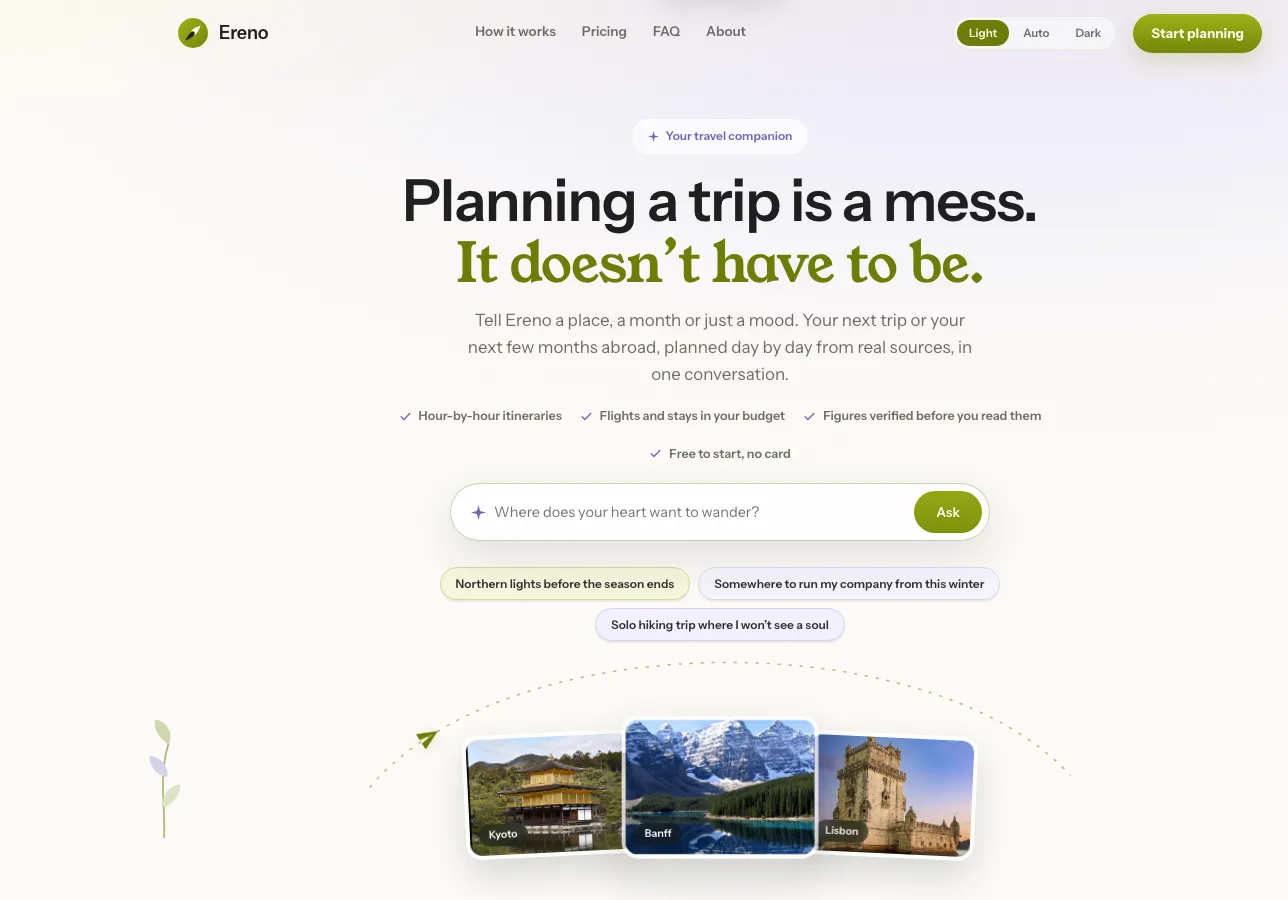
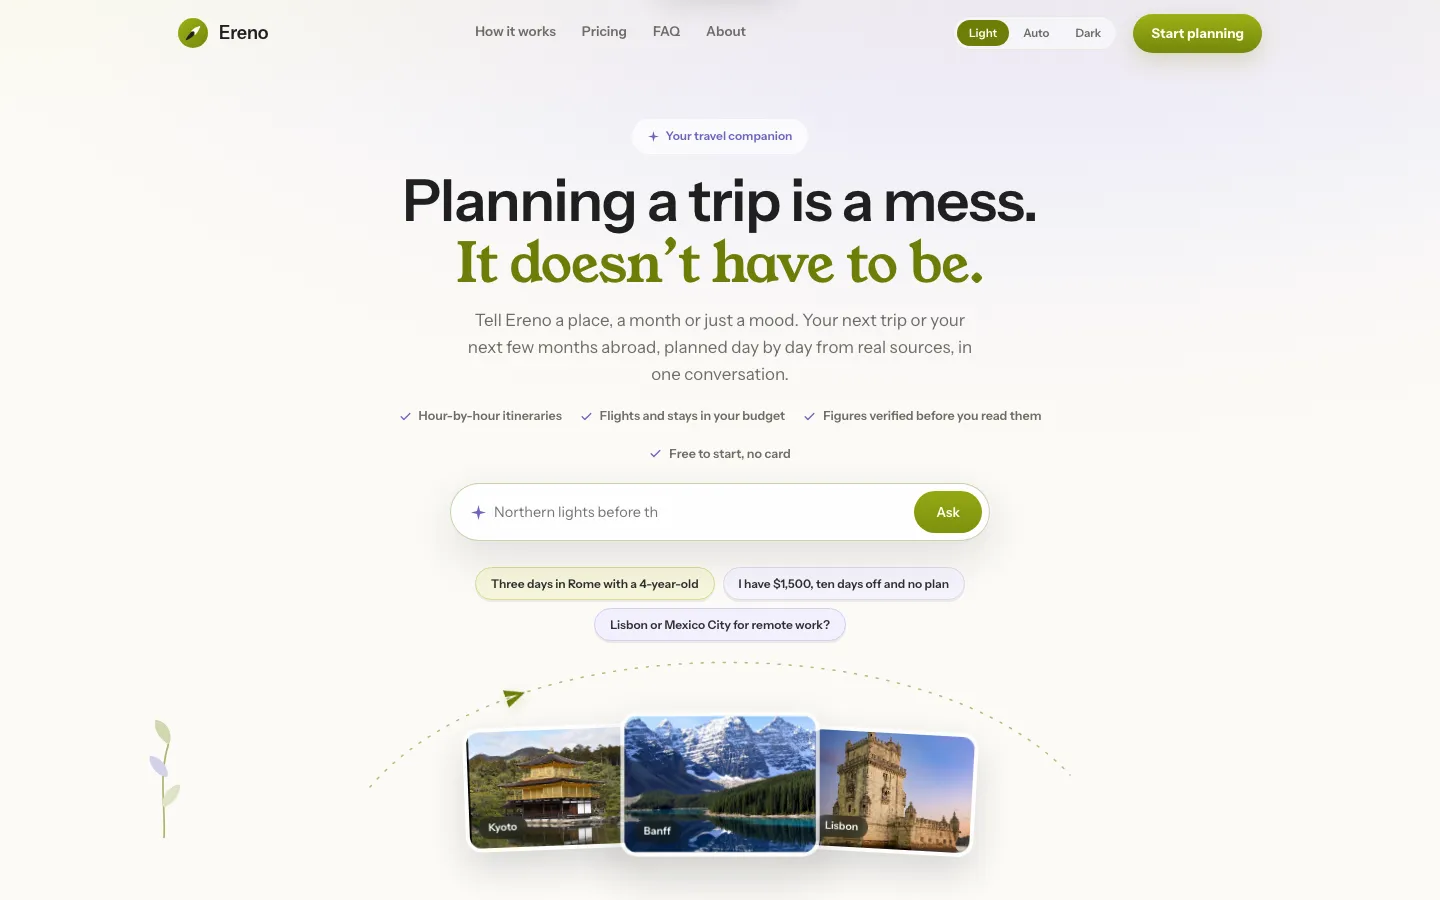
Polish studio site for EU buyers and refresh Ereno app shots
Fable tightened section rhythm, theme-aware cards, and the footer gap. Product images now show the live Ereno app onboarding, not only the marketing landing.

diff --git a/src/content/site.ts b/src/content/site.ts
@@ -5,13 +5,14 @@ export const contact = {
   github: 'https://github.com/DMPResearch',
   label: 'Build with us',
   bookLabel: 'Book a call',
+  bookFallback: 'Open Calendly in a new tab',
   calendlyUrl: 'https://calendly.com/flowstarter-app/discovery',
 };
 
 export const meta = {
-  title: 'DMPResearch — Websites and web apps for EU businesses',
+  title: 'DMPResearch | Websites and web apps for EU businesses',
   description:
-    'A two-person studio in Europe. We build websites, web apps, and custom software. AI agents help us ship faster.',
+    'A two-person studio in the EU. We design and build websites, web apps, and custom software for businesses across Europe.',
 };
 
 export const nav = [
@@ -26,7 +27,7 @@ export const hero = {
   kicker: 'A small studio in the EU',
   titleLead: 'Websites and web apps',
   titleAccent: 'for EU businesses.',
-  text: 'Darius does product and engineering. Dorin does design. AI agents handle research and first drafts, so two people ship at the pace of a bigger team. Websites, web apps, custom software. If you need something built, we should talk.',
+  text: 'Darius does product and engineering. Dorin does design. AI agents handle research and first drafts, so two people ship at the pace of a bigger team. Marketing sites, customer portals, internal tools. If you need something built, we should talk.',
   primary: { label: 'Book a call', href: '#contact' },
   secondary: { label: 'See our work', href: '#products' },
 };
@@ -68,7 +69,7 @@ export const products: Product[] = [
     facts: [
       { term: 'Status', detail: 'Live' },
       { term: 'Wedge', detail: 'Professional websites' },
-      { term: 'Model', detail: 'Build + care subscription' },
+      { term: 'Model', detail: 'Build once, then a care plan' },
     ],
   },
   {
@@ -77,21 +78,21 @@ export const products: Product[] = [
     name: 'Ereno',
     tint: 'olive',
     mark: '/ereno.svg',
-    imageLight: '/images/ereno-site-light.webp',
-    imageDark: '/images/ereno-site-dark.webp',
-    imageAlt: 'Screenshot of the Ereno website',
-    title: 'A planning companion for trips and base scouting.',
-    text: 'Ereno is a conversational tool that pulls research, compares options, and keeps trade-offs where you can see them. It does not book anything. You go to the provider for that.',
+    imageLight: '/images/ereno-app-light.webp',
+    imageDark: '/images/ereno-app-dark.webp',
+    imageAlt: 'Screenshot of the Ereno web app preference onboarding',
+    title: 'A trip planner that shows its sources.',
+    text: 'Ereno is a web app for planning trips and scouting places to stay. You describe what you want in plain language. It pulls research, compares options, and keeps the trade-offs visible. It does not book anything. You book with the provider.',
     points: [
-      'Plan trips and scout bases in one conversation',
-      'Sources and trade-offs stay visible',
-      'No booking layer. You book directly.',
+      'Plan a trip or compare places to stay in one conversation',
+      'Every suggestion links back to its sources',
+      'No booking layer. You book directly with the provider.',
     ],
-    link: { label: 'Visit ereno.flowstarter.dev', href: 'https://ereno.flowstarter.dev' },
+    link: { label: 'Open the Ereno app', href: 'https://ereno.flowstarter.dev/app' },
     facts: [
       { term: 'Status', detail: 'Live' },
       { term: 'Wedge', detail: 'Travel planning' },
-      { term: 'Studio', detail: 'DMPResearch' },
+      { term: 'Type', detail: 'Web app, built in-house' },
     ],
   },
 ];
@@ -144,17 +145,20 @@ export const ambition = {
     },
     {
       title: 'Agents handle the grind',
-      text: "Research, first drafts, scaffolding, iteration. They run in parallel and they don't stop. That's how two people keep up.",
+      text: "Research, first drafts, scaffolding, test runs. They work in parallel and overnight. That's how two people keep up.",
     },
     {
       title: 'You get working software',
       text: 'Not a slide deck. A live site or app you can use, own, and change.',
     },
   ],
+  cta: { label: contact.bookLabel, href: contact.sectionHref },
 };
 
 export const method = {
+  kicker: 'How we build',
   title: 'How we build things.',
+  loopLabel: 'The loop',
   text: 'Every project on this page was built the same way. Agents run research, write first drafts, and scaffold code. We review every decision that matters and read every line before it goes live.',
   loop: ['Agents draft', 'We review', 'It ships', 'We revisit'],
   columns: [
@@ -180,6 +184,7 @@ export const method = {
 };
 
 export const team = {
+  kicker: 'The team',
   title: "Two people. You know who you're working with.",
   text: 'We met building software for other people and kept noticing the same thing: agents can do in an afternoon what used to take a week. But someone still has to know what good looks like. So we stayed small on purpose.',
   members: [
@@ -202,6 +207,7 @@ export const team = {
 };
 
 export const cta = {
+  kicker: 'Work with us',
   title: "Let's talk about what you need.",
   text: 'We build websites and web apps for businesses in Europe. Book a call or send a note to hello@flowstarter.dev. You talk to Darius and Dorin, not account managers.',
   bookHint: "Thirty minutes is enough to figure out if we're a fit.",
@@ -214,10 +220,14 @@ export const cta = {
     company: 'Company (optional)',
     message: 'What do you want built?',
     submit: 'Send message',
+    honeypot: 'Leave this field empty',
   },
 };
 
 export const footer = {
+  navLabel: 'Footer',
+  brand: 'DMPResearch',
+  tagline: 'Websites and web apps for EU businesses',
   builtWith: {
     label: 'Built with Flowstarter',
     href: 'https://flowstarter.net',

diff --git a/src/styles/global.css b/src/styles/global.css
@@ -55,6 +55,12 @@ html[data-resolved='dark'] {
   --chip-bg: rgba(14, 20, 27, 0.72);
   --card-chrome: rgba(255, 255, 255, 0.03);
   --solid-shadow: 0 0 0 1px rgba(255, 255, 255, 0.08), 0 18px 40px -20px rgba(91, 108, 255, 0.55);
+  --card-bg: rgba(14, 20, 27, 0.72);
+  --card-bg-strong: #0e141b;
+  --card-sheen: rgba(255, 255, 255, 0.04);
+  --card-shadow: 0 1px 0 rgba(255, 255, 255, 0.04) inset, 0 20px 50px -36px rgba(0, 0, 0, 0.8);
+  --photo-ring: rgba(7, 10, 14, 0.65);
+  --photo-glow: rgba(91, 108, 255, 0.45);
 
   --font-display: 'Bricolage Grotesque', 'Helvetica Neue', Arial, sans-serif;
   --font-body: 'Geist', 'Helvetica Neue', Arial, sans-serif;
@@ -77,7 +83,8 @@ html[data-resolved='dark'] {
   --s-7: 48px;
   --s-8: 72px;
   --s-9: 112px;
-  --section: clamp(96px, 12vw, 168px);
+  --section: clamp(56px, 6vw, 96px);
+  --section-head: clamp(28px, 3.5vw, 44px);
   --header-h: 68px;
 
   --container: 1180px;
@@ -122,6 +129,12 @@ html[data-resolved='light'] {
   --chip-bg: rgba(255, 255, 255, 0.78);
   --card-chrome: rgba(18, 22, 28, 0.03);
   --solid-shadow: 0 0 0 1px rgba(18, 22, 28, 0.06), 0 18px 40px -20px rgba(58, 79, 212, 0.35);
+  --card-bg: rgba(255, 255, 255, 0.62);
+  --card-bg-strong: #ffffff;
+  --card-sheen: rgba(255, 255, 255, 0.7);
+  --card-shadow: 0 1px 0 rgba(255, 255, 255, 0.9) inset, 0 20px 50px -36px rgba(18, 22, 28, 0.22);
+  --photo-ring: rgba(244, 241, 234, 0.9);
+  --photo-glow: rgba(58, 79, 212, 0.25);
 
   --shadow-frame:
     0 1px 0 rgba(255, 255, 255, 0.8) inset,
@@ -254,6 +267,28 @@ section[id] {
 
 .section {
   padding-block: var(--section);
+}
+
+.section-head {
+  display: grid;
+  gap: var(--s-4);
+  max-width: 680px;
+  margin-bottom: var(--section-head);
+}
+
+.card {
+  border: 1px solid var(--line);
+  border-radius: var(--radius);
+  background:
+    linear-gradient(160deg, var(--card-sheen), transparent 55%),
+    var(--card-bg);
+  box-shadow: var(--card-shadow);
+  transition: border-color 200ms var(--ease), transform 200ms var(--ease);
+}
+
+.card--hover:hover {
+  border-color: var(--line-2);
+  transform: translateY(-2px);
 }
 
 .lede {
